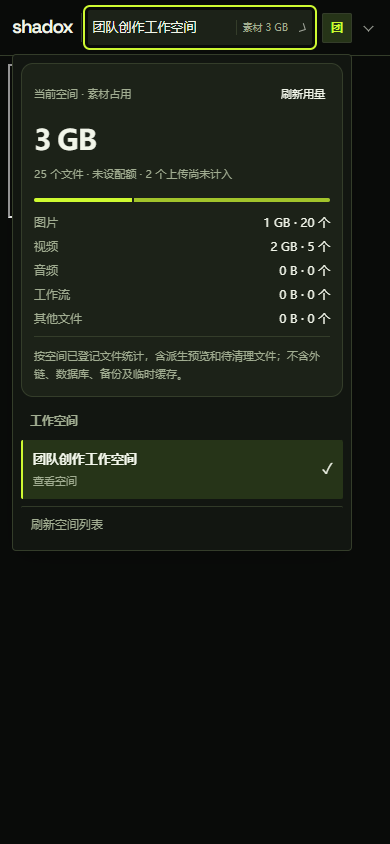
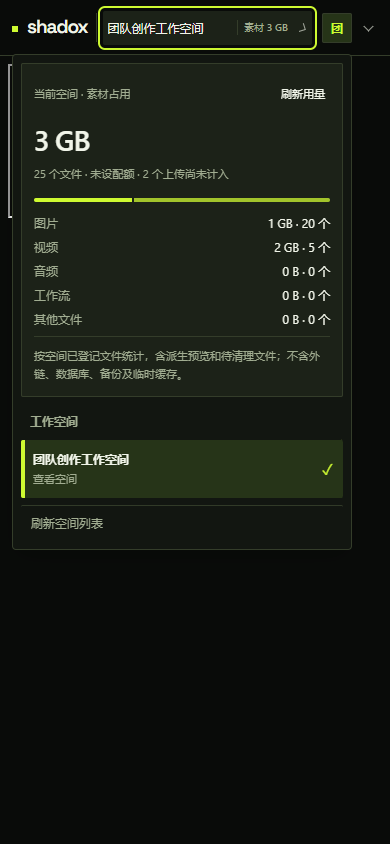
fix(studio): unify member header theme and clarify navigation labels

diff --git a/static/css/member-session.css b/static/css/member-session.css
@@ -1,42 +1,41 @@
 @import url('/static/css/shadox-brand.css');
+@import url('/static/css/studio-tokens.css');
 .member-session-pending body > :not(.member-session-panel) { visibility:hidden !important; }
 .member-session-panel { visibility:visible; position:fixed; inset:0; z-index:2147483640; display:grid; place-items:center; background:#eef2ed; color:#203b2d; font:14px/1.6 system-ui,sans-serif; padding:24px; }
 .member-session-card { width:min(460px,100%); max-height:85vh; overflow:auto; border:1px solid #dbe4d8; border-radius:20px; background:#fff; padding:30px; box-shadow:0 14px 48px #254f3012; }
 .member-session-card h1 { font-size:25px; margin:10px 0; }
 .member-session-card p { color:#526457; }
 .member-session-eyebrow { color:#5b7756; font-size:12px; letter-spacing:.1em; }
-.member-session-card button,.member-session-bar button,.member-session-banner button { cursor:pointer; border:1px solid #cbd8c8; background:#f5f8f3; color:#203b2d; border-radius:9px; padding:9px 12px; font:inherit; margin:5px; }
+.member-session-card button,.member-session-banner button { cursor:pointer; border:1px solid #cbd8c8; background:#f5f8f3; color:#203b2d; border-radius:9px; padding:9px 12px; font:inherit; margin:5px; }
 .member-session-card button:disabled { opacity:.55; cursor:wait; }
 .member-session-card .member-space-choice { display:block; text-align:left; width:calc(100% - 10px); padding:14px; font-weight:600; }
 .member-space-choice small { display:block; color:#657264; font-weight:400; margin-top:3px; }
 .member-session-card label { display:block; margin:14px 0; }
 .member-session-card input,.member-session-card select { box-sizing:border-box; display:block; width:100%; padding:10px; margin-top:6px; border:1px solid #bdcdbc; border-radius:8px; font:inherit; }
 .member-session-card .member-session-error { color:#a72d36; }
-.member-session-bar { position:fixed; right:14px; bottom:12px; z-index:100000; display:flex; align-items:center; background:#ffffffed; border:1px solid #dbe4d8; border-radius:12px; box-shadow:0 3px 18px #0001; font:12px system-ui,sans-serif; }
-.member-session-bar button { max-width:190px; overflow:hidden; text-overflow:ellipsis; white-space:nowrap; border:0; margin:3px; }
 .member-session-banner { position:fixed; bottom:68px; left:50%; transform:translateX(-50%); z-index:2147483645; background:#fff8e7; color:#4b3f25; box-shadow:0 4px 20px #0002; border:1px solid #e7d4a0; border-radius:12px; padding:16px; width:min(560px,90vw); font:14px/1.5 system-ui,sans-serif; }
 .member-session-banner a { margin:8px; color:#225536; }
 .member-session-maintenance { position:fixed; top:12px; left:50%; transform:translateX(-50%); z-index:100001; display:grid; gap:4px; width:min(600px,90vw); padding:12px 16px; border-radius:12px; background:#fff8e7; color:#4b3f25; border:1px solid #e7d4a0; font:13px/1.5 system-ui,sans-serif; box-shadow:0 3px 14px #0001; }
 
 /* Unified workspace header; reserve space instead of overlaying the canvas. */
-html.member-workspace-shell{--ms-bg:#fff;--ms-text:#263247;--ms-muted:#7a879a;--ms-border:#e3e8ef;--ms-hover:#f3f6fa}
+html.member-workspace-shell{--ms-bg:var(--studio-page);--ms-text:var(--studio-text);--ms-muted:var(--studio-text-muted);--ms-border:var(--studio-border);--ms-hover:var(--studio-surface-muted);--ms-glass:var(--studio-panel)}
 html.member-workspace-shell body{padding-top:56px;box-sizing:border-box}
-.member-session-bar{inset:0 0 auto 0;bottom:auto;height:56px;box-sizing:border-box;padding:0 24px;gap:12px;border:0;border-bottom:1px solid var(--ms-border);border-radius:0;background:var(--ms-bg);color:var(--ms-text);box-shadow:none;font:13px/1.5 system-ui,sans-serif}
+.member-session-bar{position:fixed;z-index:100000;display:flex;align-items:center;inset:0 0 auto 0;bottom:auto;height:56px;box-sizing:border-box;padding:0 24px;gap:12px;border:0;border-bottom:1px solid var(--ms-border);border-radius:0;background:var(--ms-bg);color:var(--ms-text);box-shadow:none;font:12px/1.5 var(--studio-font)}
 .member-session-brand{font-weight:700;font-size:14px;letter-spacing:.04em;padding-right:18px;border-right:1px solid var(--ms-border)}
-.member-session-bar button{color:var(--ms-text);background:transparent;border-radius:8px;padding:8px 10px;margin:0}
+.member-session-brand::before{content:'';display:inline-block;width:6px;height:6px;background:var(--studio-accent-label);margin-right:9px;vertical-align:middle}
+.member-session-bar button{max-width:190px;overflow:hidden;text-overflow:ellipsis;white-space:nowrap;border:0;color:var(--ms-text);background:transparent;border-radius:var(--studio-radius-control);padding:8px 10px;margin:0;cursor:pointer;font:inherit}
 .member-session-bar button:hover,.member-session-account summary:hover{background:var(--ms-hover)}
 .member-session-bar .member-session-space{max-width:300px;font-weight:500}
 .member-session-account{margin-left:auto;position:relative}
-.member-session-account summary{display:flex;align-items:center;gap:9px;cursor:pointer;list-style:none;padding:5px 8px;border-radius:10px;max-width:240px}
+.member-session-account summary{display:flex;align-items:center;gap:9px;cursor:pointer;list-style:none;padding:5px 8px;border-radius:var(--studio-radius-control);max-width:240px}
 .member-session-account summary::-webkit-details-marker{display:none}
 .member-session-account summary>span:nth-child(2){overflow:hidden;text-overflow:ellipsis;white-space:nowrap}
-.member-session-avatar{display:grid;place-items:center;flex-shrink:0;width:28px;height:28px;border-radius:50%;background:#e7eef8;color:#426083;font-size:12px;font-weight:600}
-.member-session-account-menu{position:absolute;right:0;top:calc(100% + 10px);width:210px;box-sizing:border-box;background:var(--ms-bg);border:1px solid var(--ms-border);border-radius:14px;padding:8px;box-shadow:0 8px 32px #26324718;display:flex;flex-direction:column;gap:3px}
+.member-session-avatar{display:grid;place-items:center;flex-shrink:0;width:28px;height:28px;border:1px solid var(--ms-border);border-radius:var(--studio-radius-control);background:var(--studio-selected);color:var(--studio-accent-label);font-size:12px;font-weight:600}
+.member-session-account-menu{position:absolute;right:0;top:calc(100% + 10px);width:210px;box-sizing:border-box;background:var(--studio-panel);border:1px solid var(--ms-border);border-top-color:var(--studio-accent-label);border-radius:var(--studio-radius-control);padding:8px;box-shadow:0 8px 32px var(--studio-shadow);display:flex;flex-direction:column;gap:3px}
 .member-session-account-menu small{color:var(--ms-muted);font-size:11px;padding:5px 9px 0}
 .member-session-account-menu strong{font-size:13px;padding:0 9px 10px;border-bottom:1px solid var(--ms-border);overflow-wrap:anywhere}
 .member-session-account-menu button{text-align:left;max-width:none;width:100%}
-.member-session-bar :is(button,summary):focus-visible{outline:2px solid #658dc2;outline-offset:2px}
-html.member-workspace-shell.theme-dark,html.member-workspace-shell:has(body.theme-dark),html.member-workspace-shell.studio-theme-dark,html.member-workspace-shell.dark,html.member-workspace-shell[data-theme=dark]{--ms-bg:#1c2532;--ms-text:#e2e8f0;--ms-muted:#a2b0c3;--ms-border:#344153;--ms-hover:#2c384b}
+.member-session-bar :is(button,summary):focus-visible{outline:2px solid var(--studio-focus);outline-offset:2px}
 .member-session-maintenance{top:64px}
 @media(max-width:640px){.member-session-bar{padding:0 12px;gap:6px}.member-session-brand{font-size:12px;padding-right:8px}.member-session-bar .member-session-space{max-width:140px}.member-session-account summary{max-width:120px;padding:4px}.member-session-account summary>span:nth-child(2){display:none}}
 
@@ -51,26 +50,19 @@ html.member-workspace-shell .app-shell>.sidebar{height:100%;max-height:100%}
 .member-session-account[open] summary::after{transform:translateY(3px) rotate(225deg)}
 @media(prefers-reduced-motion:reduce){.member-session-space::after,.member-session-account summary::after{transition:none}}
 
-/* The workspace header and account menu share the canvas glass finish. */
-html.member-workspace-shell{--ms-glass:rgba(255,255,255,.82)}
-html.member-workspace-shell.theme-dark,html.member-workspace-shell:has(body.theme-dark),html.member-workspace-shell.studio-theme-dark,html.member-workspace-shell.dark,html.member-workspace-shell[data-theme=dark]{--ms-glass:rgba(28,37,50,.84)}
-@supports ((backdrop-filter:blur(10px)) or (-webkit-backdrop-filter:blur(10px))){
-    .member-session-bar,.member-session-account-menu{background:var(--ms-glass);backdrop-filter:blur(10px) saturate(115%);-webkit-backdrop-filter:blur(10px) saturate(115%)}
-}
-
 /* Everyday workspace switching stays anchored to the current canvas. */
 .member-session-spaces{position:relative;min-width:0}
 .member-session-bar .member-session-space{max-width:420px}
 .member-session-space>span:first-child{flex:1;min-width:0}
 .member-session-space .member-space-usage-brief{flex:none;font-size:11px;color:var(--ms-muted);padding-left:10px;border-left:1px solid var(--ms-border);font-variant-numeric:tabular-nums}
-.member-session-spaces summary{list-style:none;cursor:pointer;padding:8px 10px;border-radius:8px}
+.member-session-spaces summary{list-style:none;cursor:pointer;padding:8px 10px;border-radius:var(--studio-radius-control)}
 .member-session-spaces summary::-webkit-details-marker{display:none}
 .member-session-spaces summary:hover{background:var(--ms-hover)}
 .member-session-spaces[open] summary::after{transform:translateY(3px) rotate(225deg)}
-.member-space-menu{position:absolute;left:0;top:calc(100% + 10px);width:340px;max-width:calc(100vw - 32px);max-height:calc(100dvh - 80px);overflow:auto;box-sizing:border-box;padding:10px;border:1px solid var(--ms-border);border-radius:14px;background:var(--ms-glass,var(--ms-bg));color:var(--ms-text);box-shadow:0 10px 32px #26324720;backdrop-filter:blur(12px) saturate(115%)}
-.member-space-storage{padding:12px;margin-bottom:10px;border:1px solid var(--ms-border);border-radius:12px;background:var(--ms-hover);white-space:normal}
+.member-space-menu{position:absolute;left:0;top:calc(100% + 10px);width:340px;max-width:calc(100vw - 32px);max-height:calc(100dvh - 80px);overflow:auto;box-sizing:border-box;padding:10px;border:1px solid var(--ms-border);border-top-color:var(--studio-accent-label);border-radius:var(--studio-radius-control);background:var(--studio-panel);color:var(--ms-text);box-shadow:0 10px 32px var(--studio-shadow)}
+.member-space-storage{padding:12px;margin-bottom:10px;border:1px solid var(--ms-border);border-radius:var(--studio-radius-card);background:var(--ms-hover);white-space:normal}
 .member-storage-heading{display:flex;align-items:center;justify-content:space-between;gap:8px;font-size:11px;color:var(--ms-muted)}
-.member-session-bar .member-storage-heading button{padding:5px;font-size:11px;border-radius:6px;flex:none}
+.member-session-bar .member-storage-heading button{padding:5px;font-size:11px;flex:none}
 .member-storage-total{display:block;margin-top:10px;font-size:28px;line-height:1.25;font-weight:600;letter-spacing:-.04em;font-variant-numeric:tabular-nums}
 .member-storage-status,.member-storage-note{margin:8px 0 0;font-size:11px;line-height:1.7;color:var(--ms-muted)}
 .member-storage-composition{display:flex;gap:2px;height:4px;margin-top:14px;overflow:hidden;border-radius:4px}
@@ -82,12 +74,12 @@ html.member-workspace-shell.theme-dark,html.member-workspace-shell:has(body.them
 .member-storage-note{padding-top:10px;border-top:1px solid var(--ms-border)}
 .member-space-menu>strong{display:block;padding:5px 9px 10px;font-size:12px;color:var(--ms-muted)}
 .member-space-list{max-height:min(360px,60vh);overflow:auto;overscroll-behavior:contain}
-.member-session-bar .member-space-option{display:flex;align-items:center;gap:12px;width:100%;max-width:none;text-align:left;padding:10px;border-radius:9px}
-.member-space-option[aria-current=true]{background:var(--ms-hover)}
+.member-session-bar .member-space-option{display:flex;align-items:center;gap:12px;width:100%;max-width:none;text-align:left;padding:10px}
+.member-space-option[aria-current=true]{background:var(--studio-selected);box-shadow:inset 2px 0 var(--studio-accent-label)}
 .member-space-copy{display:flex;flex:1;min-width:0;flex-direction:column;gap:3px}
 .member-space-copy>span{font-weight:600;overflow:hidden;text-overflow:ellipsis}
 .member-space-copy small{color:var(--ms-muted);font-size:11px;overflow:hidden;text-overflow:ellipsis;white-space:nowrap}
-.member-space-check{flex:none;font-size:15px}
+.member-space-check{flex:none;font-size:15px;color:var(--studio-accent-label)}
 .member-space-message{font-size:12px;color:var(--ms-muted);padding:0 9px;white-space:normal}
 .member-space-message:empty{display:none}
 .member-space-menu>button{width:100%;max-width:none;margin-top:7px;border-top:1px solid var(--ms-border);border-radius:0;text-align:left;font-size:12px;color:var(--ms-muted)}
@@ -95,8 +87,6 @@ html.member-workspace-shell.theme-dark,html.member-workspace-shell:has(body.them
 @media(max-width:640px){.member-space-menu{position:fixed;left:12px;top:54px}.member-session-spaces{flex:1}.member-session-bar .member-session-space{max-width:none;padding:8px 5px;gap:6px}.member-session-space .member-space-usage-brief{padding-left:6px;font-size:10px}.member-session-brand{flex:none}.member-session-account{flex:none}}
 
 /* Quiet transitions for workspace selection and navigation. */
-.member-space-menu{background:rgba(255,255,255,.96);backdrop-filter:blur(16px) saturate(110%)}
-html:is(.theme-dark,.studio-theme-dark,.dark,[data-theme=dark]) .member-space-menu{background:rgba(28,37,50,.97)}
 .member-session-spaces[open] .member-space-menu{animation:member-space-open 150ms ease-out}
 @keyframes member-space-open{from{opacity:0;transform:translateY(-3px)}to{opacity:1;transform:translateY(0)}}
 .member-space-transition{position:fixed;inset:0;z-index:2147483641;display:grid;place-items:center;background:var(--st-bg,#f3f2ed);color:var(--st-muted,#70756d);font:14px/1.6 system-ui,sans-serif;animation:member-space-fade 140ms ease-out}
@@ -129,24 +119,24 @@ html.member-session-pending:is(.theme-dark,.studio-theme-dark,.dark,[data-theme=
 @media(prefers-reduced-motion:reduce){.member-space-onboarding .member-session-card{animation:none}.member-space-onboarding .member-space-choice{transition:none}}
 
 /* Profile editing stays above the current canvas without replacing the workspace. */
-.member-profile-dialog{box-sizing:border-box;width:440px;max-width:calc(100vw - 40px);max-height:85vh;overflow:auto;padding:26px;border:1px solid var(--ms-border);border-radius:18px;background:var(--ms-bg);color:var(--ms-text);font:14px/1.5 system-ui,sans-serif;box-shadow:0 20px 70px #0003;color-scheme:light}
+.member-profile-dialog{box-sizing:border-box;width:440px;max-width:calc(100vw - 40px);max-height:85vh;overflow:auto;padding:26px;border:1px solid var(--ms-border);border-top-color:var(--studio-accent-label);border-radius:var(--studio-radius-dialog);background:var(--studio-panel);color:var(--ms-text);font:14px/1.5 var(--studio-font);box-shadow:0 20px 70px var(--studio-shadow);color-scheme:light}
 html:is(.dark,.theme-dark,.studio-theme-dark,[data-theme=dark]) .member-profile-dialog,html:has(body.theme-dark) .member-profile-dialog{color-scheme:dark}
-.member-profile-dialog::backdrop{background:#080d1859;backdrop-filter:blur(3px)}
+.member-profile-dialog::backdrop{background:var(--studio-overlay);backdrop-filter:blur(3px)}
 .member-profile-dialog *{box-sizing:border-box}
 .member-profile-dialog header{display:flex;align-items:center;justify-content:space-between;gap:16px}
 .member-profile-dialog h2{font-size:20px;line-height:1.4;font-weight:600;margin:0}
 .member-profile-description{font-size:12px;color:var(--ms-muted);margin:10px 0 24px}
 .member-profile-dialog label{display:grid;gap:8px;margin:18px 0;color:var(--ms-muted);font-size:12px}
-.member-profile-dialog input,.member-profile-dialog select{display:block;width:100%;min-height:42px;padding:10px 12px;border:1px solid var(--ms-border);border-radius:9px;background:var(--ms-hover);color:var(--ms-text);font:14px/1.5 system-ui,sans-serif}
-.member-profile-dialog button{border:1px solid var(--ms-border);border-radius:9px;padding:9px 16px;background:transparent;color:var(--ms-text);font:13px/1.5 system-ui,sans-serif;cursor:pointer}
+.member-profile-dialog input,.member-profile-dialog select{display:block;width:100%;min-height:42px;padding:10px 12px;border:1px solid var(--ms-border);border-radius:var(--studio-radius-control);background:var(--ms-hover);color:var(--ms-text);font:14px/1.5 var(--studio-font)}
+.member-profile-dialog button{border:1px solid var(--ms-border);border-radius:var(--studio-radius-control);padding:9px 16px;background:transparent;color:var(--ms-text);font:13px/1.5 var(--studio-font);cursor:pointer}
 .member-profile-dialog button:hover:not(:disabled){background:var(--ms-hover)}
 .member-profile-dialog .member-profile-close{border:0;padding:0;width:32px;height:32px;font-size:23px;line-height:1;color:var(--ms-muted)}
 .member-profile-actions{display:flex;justify-content:flex-end;gap:10px;margin-top:26px;padding-top:18px;border-top:1px solid var(--ms-border)}
-.member-profile-dialog .member-profile-save{background:var(--ms-text);border-color:var(--ms-text);color:var(--ms-bg);font-weight:600}
-.member-profile-dialog .member-profile-save:hover:not(:disabled){background:var(--ms-text);filter:brightness(.92)}
+.member-profile-dialog .member-profile-save{background:var(--studio-accent);border-color:var(--studio-accent);color:var(--studio-accent-text);font-weight:600}
+.member-profile-dialog .member-profile-save:hover:not(:disabled){background:var(--studio-accent);filter:brightness(.92)}
 .member-profile-dialog :is(button,input,select):disabled{opacity:.55;cursor:wait}
-.member-profile-dialog :is(button,input,select):focus-visible{outline:2px solid #658dc2;outline-offset:2px}
-.member-profile-error{color:#cf6773;font-size:12px;margin:12px 0;overflow-wrap:anywhere}
+.member-profile-dialog :is(button,input,select):focus-visible{outline:2px solid var(--studio-focus);outline-offset:2px}
+.member-profile-error{color:var(--studio-error);font-size:12px;margin:12px 0;overflow-wrap:anywhere}
 .member-profile-error:empty{display:none}
 
 .member-session-brand{font-family:var(--shadox-brand-font);font-size:19px;letter-spacing:-.055em}

diff --git a/static/canvas.html b/static/canvas.html
@@ -61,7 +61,7 @@
           <div class="gate-panel">
             <header class="studio-home-welcome"><div class="studio-eyebrow">YOUR CREATIVE SPACE</div><h1>今天，从一个想法开始。</h1><p>把灵感变成作品，接着上次的创作继续。</p></header>
             <section class="studio-start" aria-labelledby="studioStartTitle"><h2 id="studioStartTitle">开始创作</h2><div class="studio-start-grid"><button id="gateCreateBtn" class="studio-start-card" type="button"><span class="studio-index-head"><span>(01)</span><span>CLASSIC</span></span><span class="studio-index-body"><strong>经典画布</strong><small>自由连接节点，编排创作流程。</small></span><span class="studio-index-action"><span class="studio-index-label">开始创作</span><span class="studio-index-plus" aria-hidden="true">+</span></span></button><button id="gateCreateSmartBtn" class="studio-start-card" type="button"><span class="studio-index-head"><span>(02)</span><span>ASSISTED</span></span><span class="studio-index-body"><strong>智能画布</strong><small>描述想法，与 AI 一起完成创作。</small></span><span class="studio-index-action"><span class="studio-index-label">开始创作</span><span class="studio-index-plus" aria-hidden="true">+</span></span></button></div></section>
-            <section id="studioRecent" hidden aria-labelledby="studioRecentTitle"><div class="studio-section-head"><h2 id="studioRecentTitle">最近画布</h2><span>接着上次的灵感</span></div><div id="studioRecentList" class="studio-recent-list"></div></section>
+            <section id="studioRecent" hidden aria-labelledby="studioRecentTitle"><div class="studio-section-head"><h2 id="studioRecentTitle">最近修改</h2><span>按最后修改时间排序</span></div><div id="studioRecentList" class="studio-recent-list"></div></section>
             <div class="gate-head"><div class="gate-head-text"><button id="gateBackBtn" class="gate-back-link" type="button"><i data-lucide="arrow-left"></i>返回画布列表</button><div class="gate-title-row"><div id="gateTitleText" class="gate-title">全部画布</div><span id="gateCountPill" class="gate-count-pill">0 个</span></div><div id="gateSubtitle" class="gate-subtitle"></div></div></div>
             <div class="studio-library-tools"><div id="gateSearch" class="gate-search" role="search">
                             <i data-lucide="search" class="w-4 h-4" aria-hidden="true"></i>

diff --git a/static/gpt-chat.html b/static/gpt-chat.html
@@ -67,7 +67,7 @@
                             <input id="chatSkillSearch" type="search" aria-label="搜索已启用 Skill" placeholder="搜索已启用 Skill…" maxlength="160">
                             <div id="chatSkillOptions" role="listbox" aria-label="已启用 Skill"></div>
                             <div id="chatSkillStatus" role="status" aria-live="polite"></div>
-                            <a href="/static/skill-library.html" id="chatSkillLibrary">安装与启用 Skill →</a>
+                            <a href="/static/skill-library.html" id="chatSkillLibrary">前往 Skill 库（新窗口） →</a>
                         </div>
                         <div class="composer-inside-foot">
                             <div class="left-tools">

diff --git a/static/js/member-session.js b/static/js/member-session.js
@@ -293,7 +293,9 @@
             finally {loading=false;refresh.disabled=false;}
         }
         const outside=event => {if(!menu.contains(event.target)) close();};
-        const escape=event => {if(event.key==='Escape'){close();summary.focus();}};
+        const escape=event => {if(event.key==='Escape' && menu.open){close();summary.focus();}};
+        // Keyboard dismissal must work before the deferred toggle event fires.
+        menu.addEventListener('keydown',escape);
         menu.addEventListener('toggle',() => {
             if(menu.open){
                 bar?.querySelector('.member-session-account')?.removeAttribute('open');
